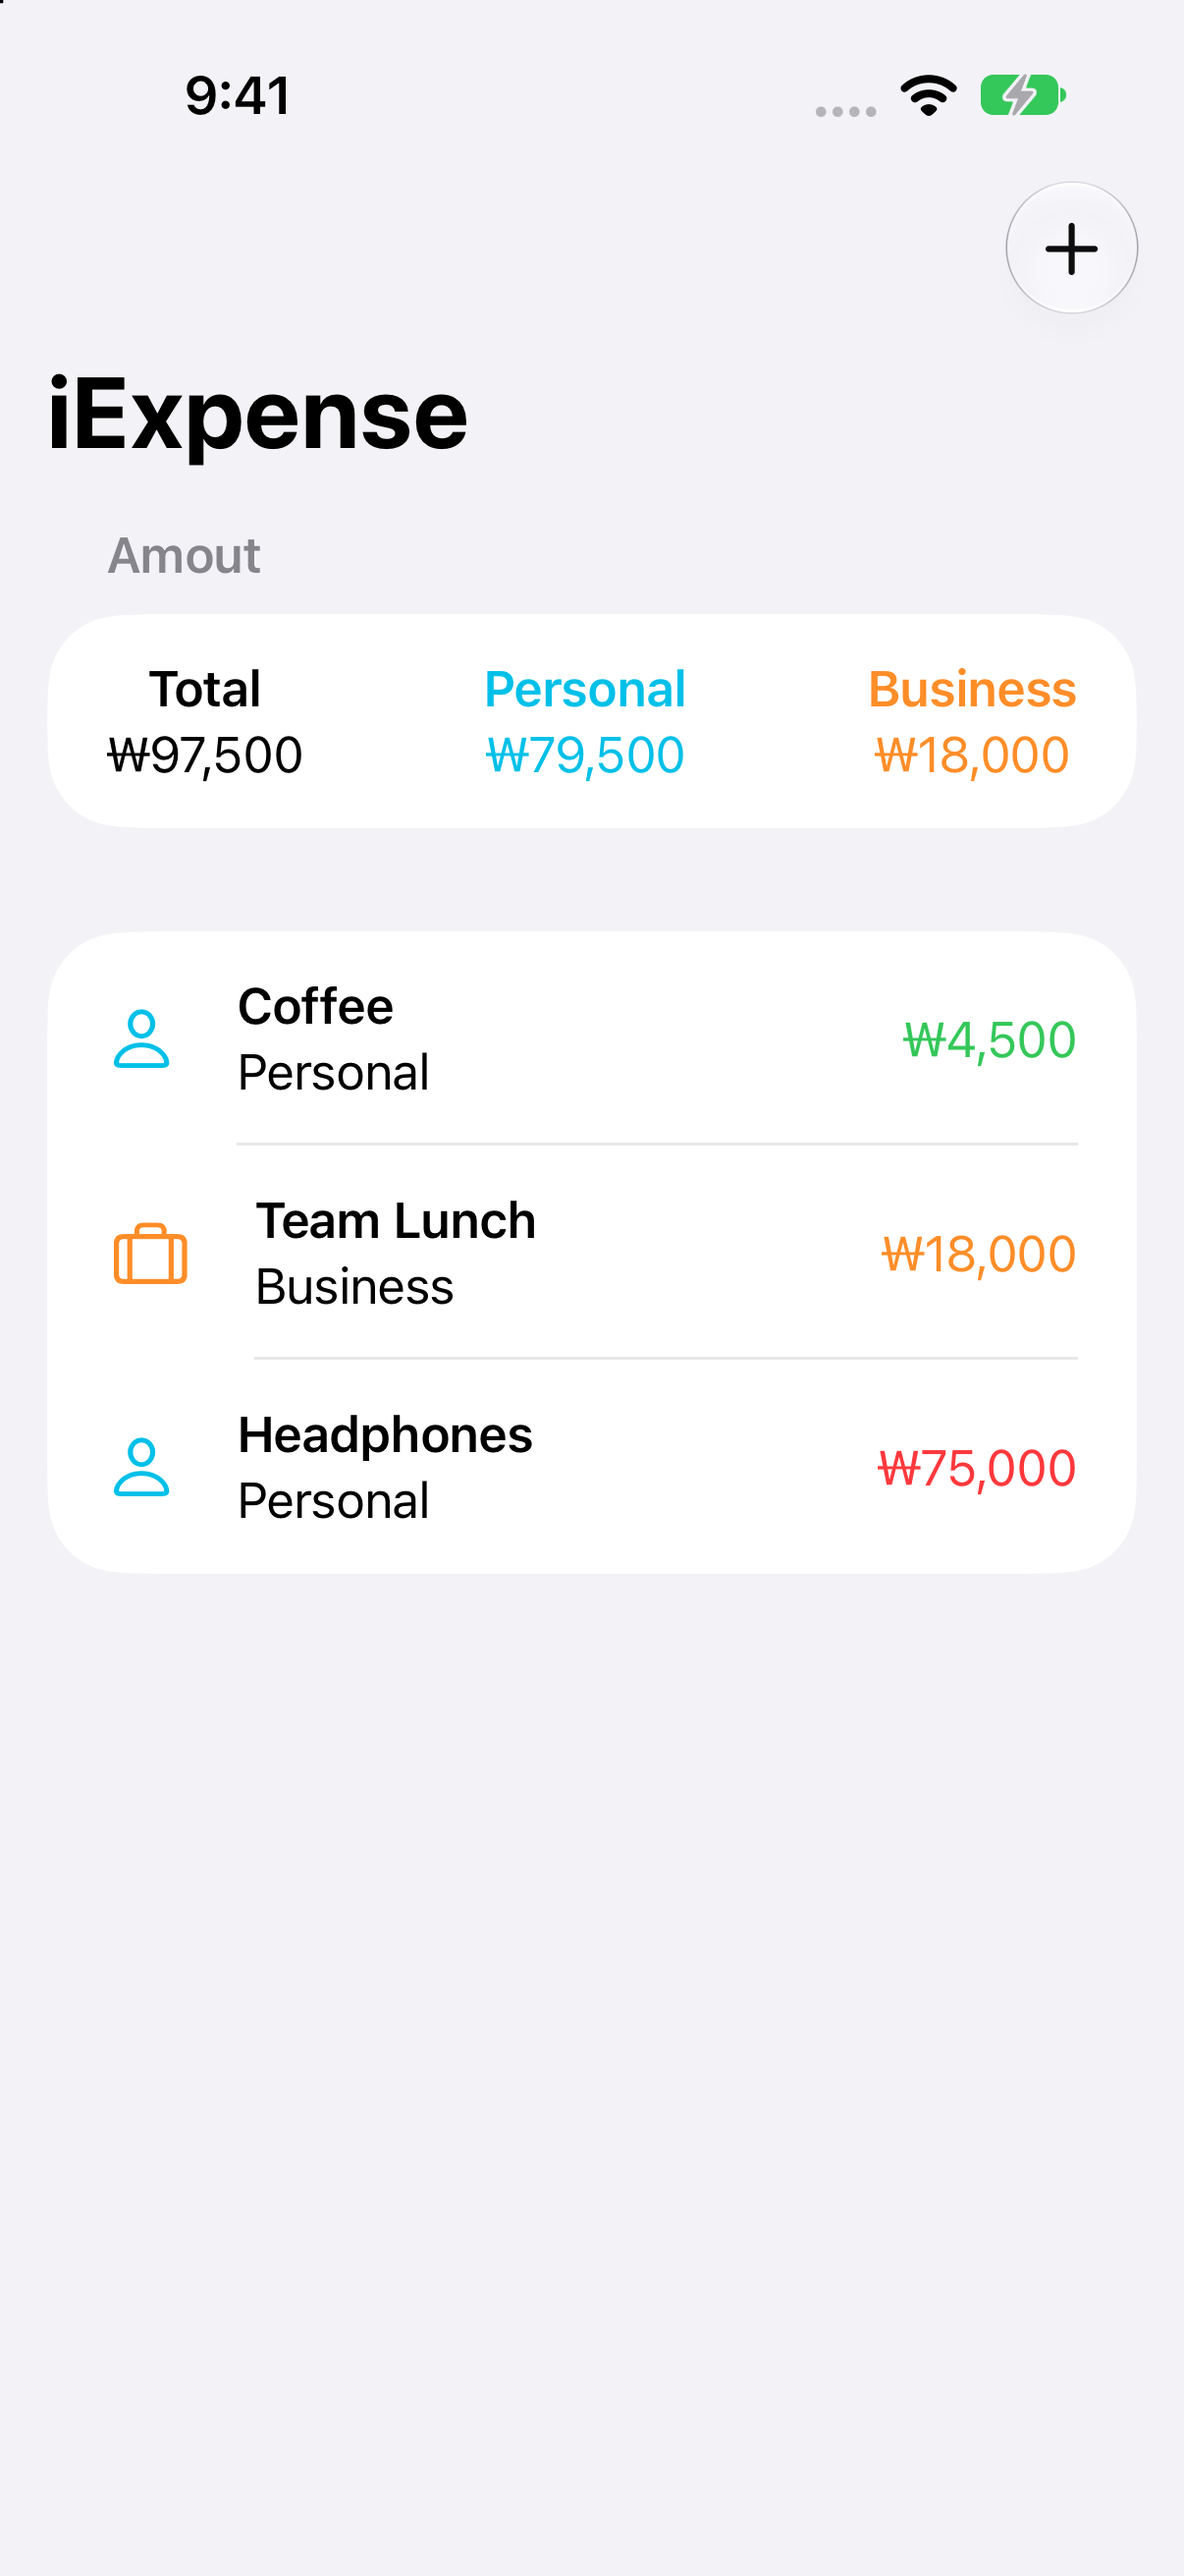
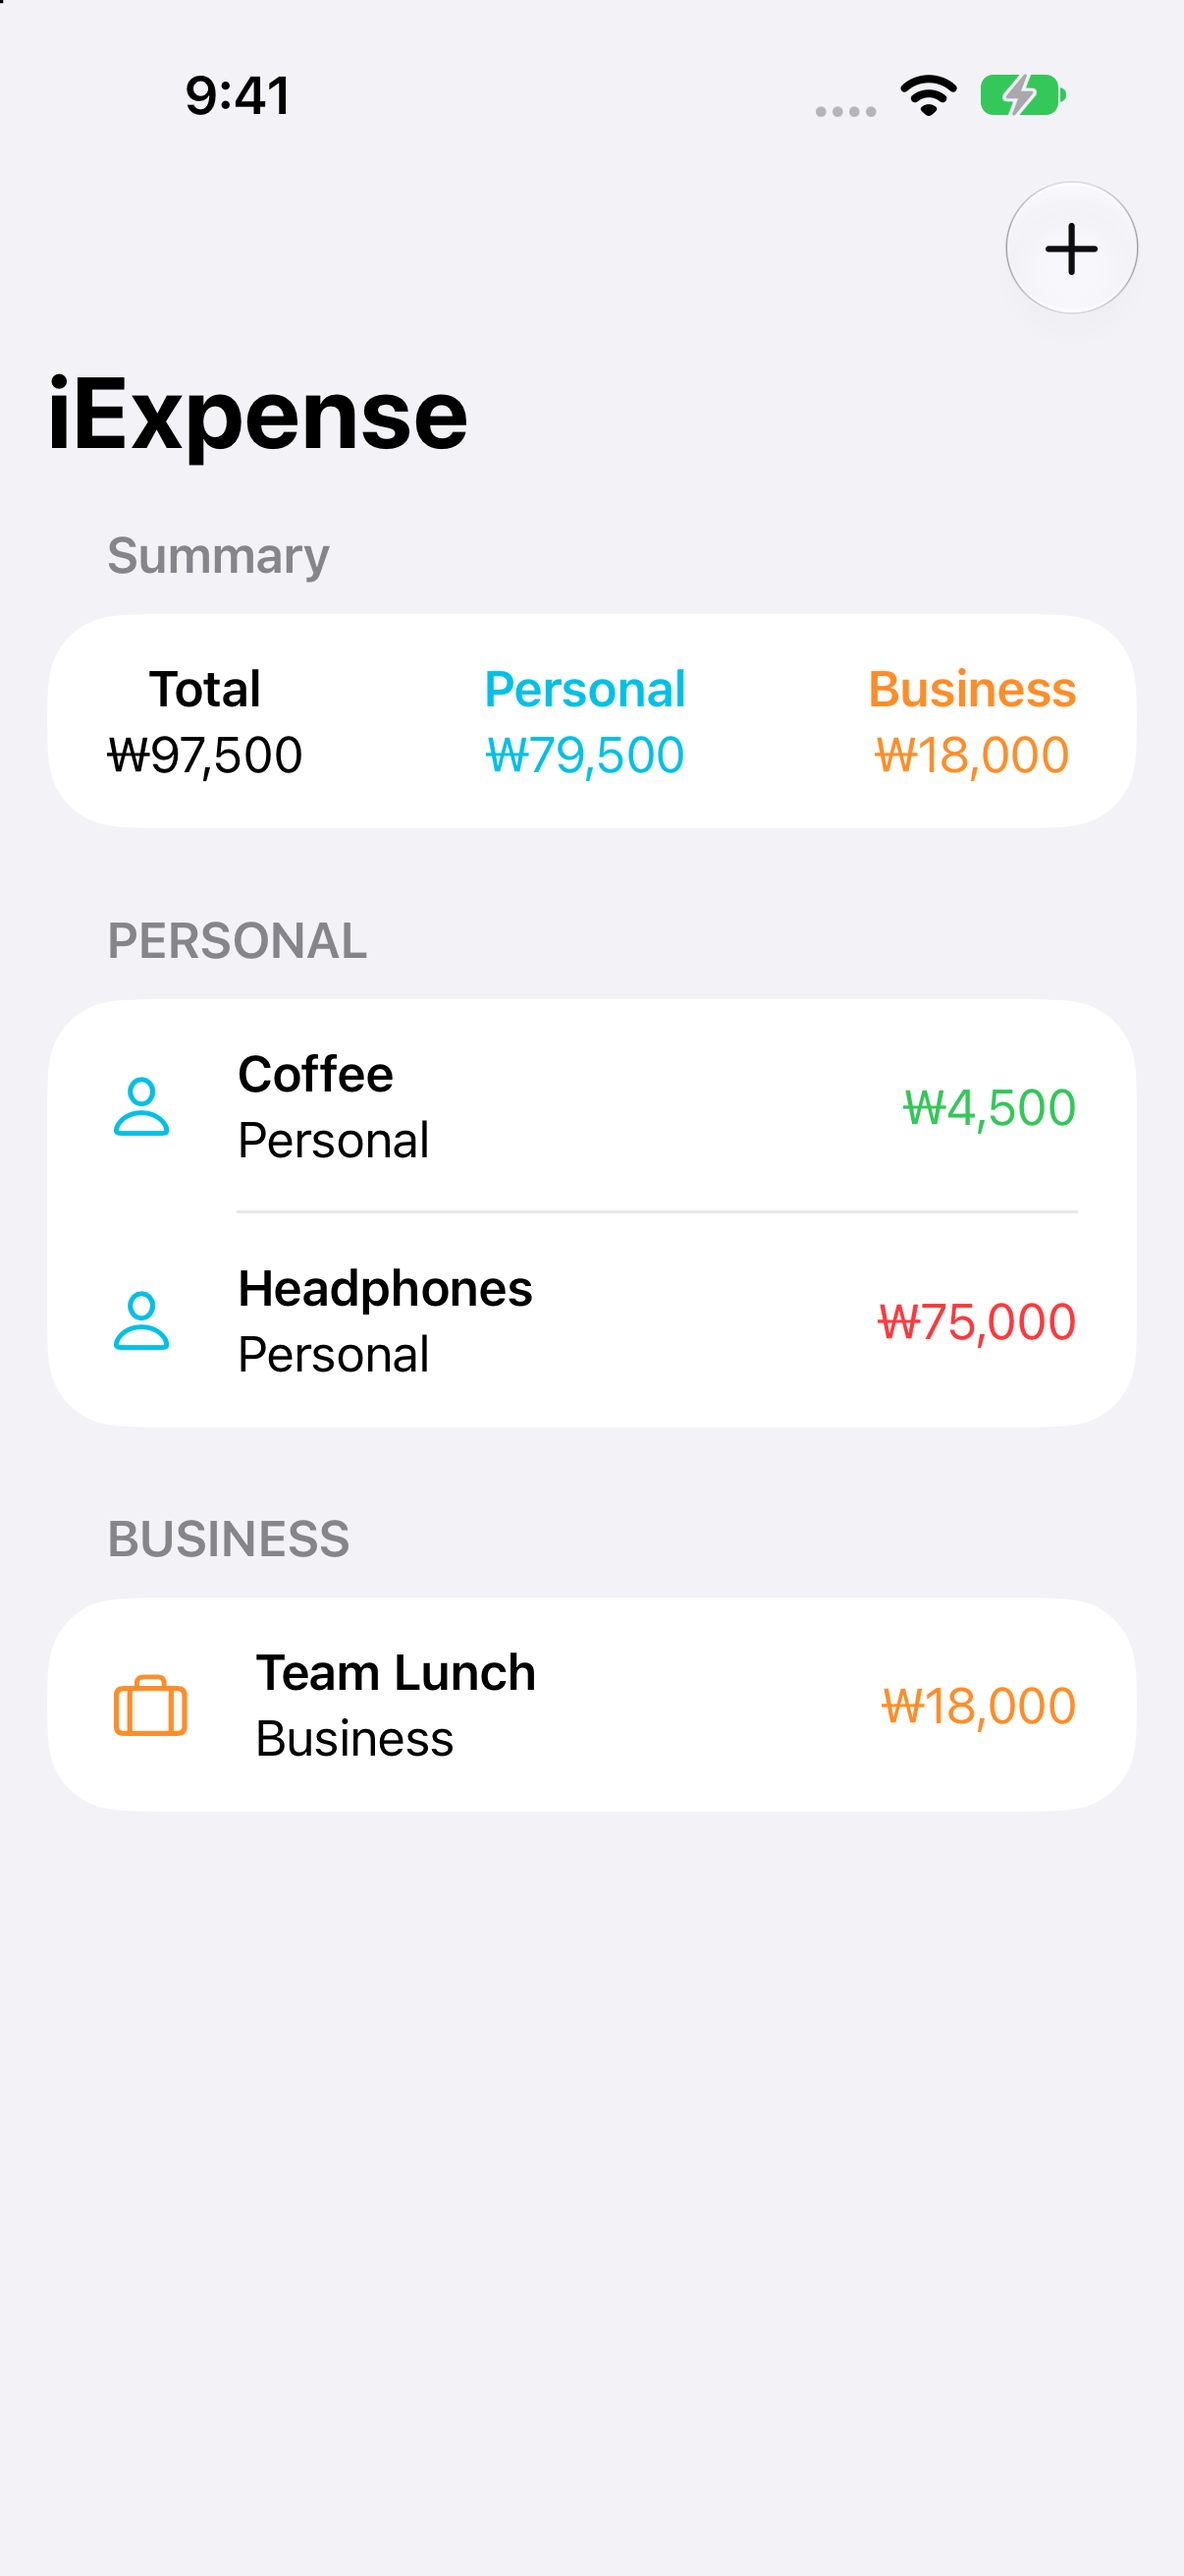
docs(iExpenses): [Day 38] Update README.md

diff --git a/iExpense/README.md b/iExpense/README.md
@@ -31,6 +31,35 @@
 - 기본값이 지정된 `let id = UUID()`는 합성 디코딩 과정에서 저장된 ID를 복원하지 못할 수 있으므로, 현재 모델에서는 `var id = UUID()`를 사용합니다.
 - `AddView`에 동일한 `Expenses` 인스턴스를 전달하여 저장 시 목록을 갱신하고 `dismiss()`로 모달을 닫습니다.
 
+### 문제 해결 과정
+
+- **문제 상황:**  
+  지출 항목을 Personal과 Business로 구분하여 각각의 Section에 표시한 이후, 특정 항목을 삭제하면 선택한 항목이 아닌 다른 항목이 삭제되는 문제가 발생했다.
+
+- **발생 원인:**  
+  `filter()`를 사용하여 생성한 배열의 인덱스와 원본 배열의 인덱스가 일치하지 않았기 때문이다. `onDelete`에서 전달하는 `IndexSet`은 해당 `ForEach`에 사용된 배열을 기준으로 하지만, 기존 삭제 함수는 전달받은 인덱스를 원본 배열에 그대로 적용하고 있었다.
+
+- **해결 방법:**  
+  배열의 인덱스 대신 각 항목의 고유 식별자인 `UUID`를 이용하여 삭제하도록 수정했다. `map()`을 사용하여 필터링된 배열에서 삭제할 항목의 UUID를 추출한 후, `removeAll(where:)`과 `contains()`를 사용하여 원본 배열에서 동일한 UUID를 가진 항목을 삭제했다.
+
+  ```swift
+  func removeItems(at offsets: IndexSet, from items: [ExpenseItem]) {
+      let ids = offsets.map { items[$0].id }
+
+      expenses.items.removeAll {
+          ids.contains($0.id)
+      }
+  }
+  ```
+
+- **새롭게 이해한 내용:**
+  - `filter()`로 생성된 배열과 원본 배열의 인덱스는 서로 다를 수 있다.
+  - `onDelete`의 `IndexSet`은 연결된 `ForEach`의 배열을 기준으로 전달된다.
+  - `UUID`를 활용하면 배열 내 위치와 관계없이 특정 데이터를 식별할 수 있다.
+  - `map()`을 사용하여 컬렉션의 요소를 다른 값으로 변환할 수 있다.
+  - `removeAll(where:)`을 사용하면 특정 조건을 만족하는 요소를 모두 삭제할 수 있다.
+  - 원본 데이터를 하나로 유지하고 필터링된 데이터를 화면에 표시하는 방식으로 데이터의 일관성을 유지할 수 있다. 이러한 설계 방식을 Single Source of Truth라고 한다.
+
 ## 실행 방법
 
 1. 이 프로젝트 폴더의 `.xcodeproj` 파일을 Xcode에서 엽니다.
@@ -48,7 +77,7 @@ iPhone 18 Pro · iOS 27.2 · 라이트 모드 · 상태 표시줄 9:41에서 직
 ## 향후 개선 방향
 
 - 빈 이름·0원·음수 입력에 대한 유효성 검사 (완료)
-- 개인 및 업무 내역의 섹션 분리 검토
+- 개인 및 업무 내역의 섹션 분리 검토 (완료)
 - 저장 오류 처리 및 저장·복원 테스트 추가
 
 ---
